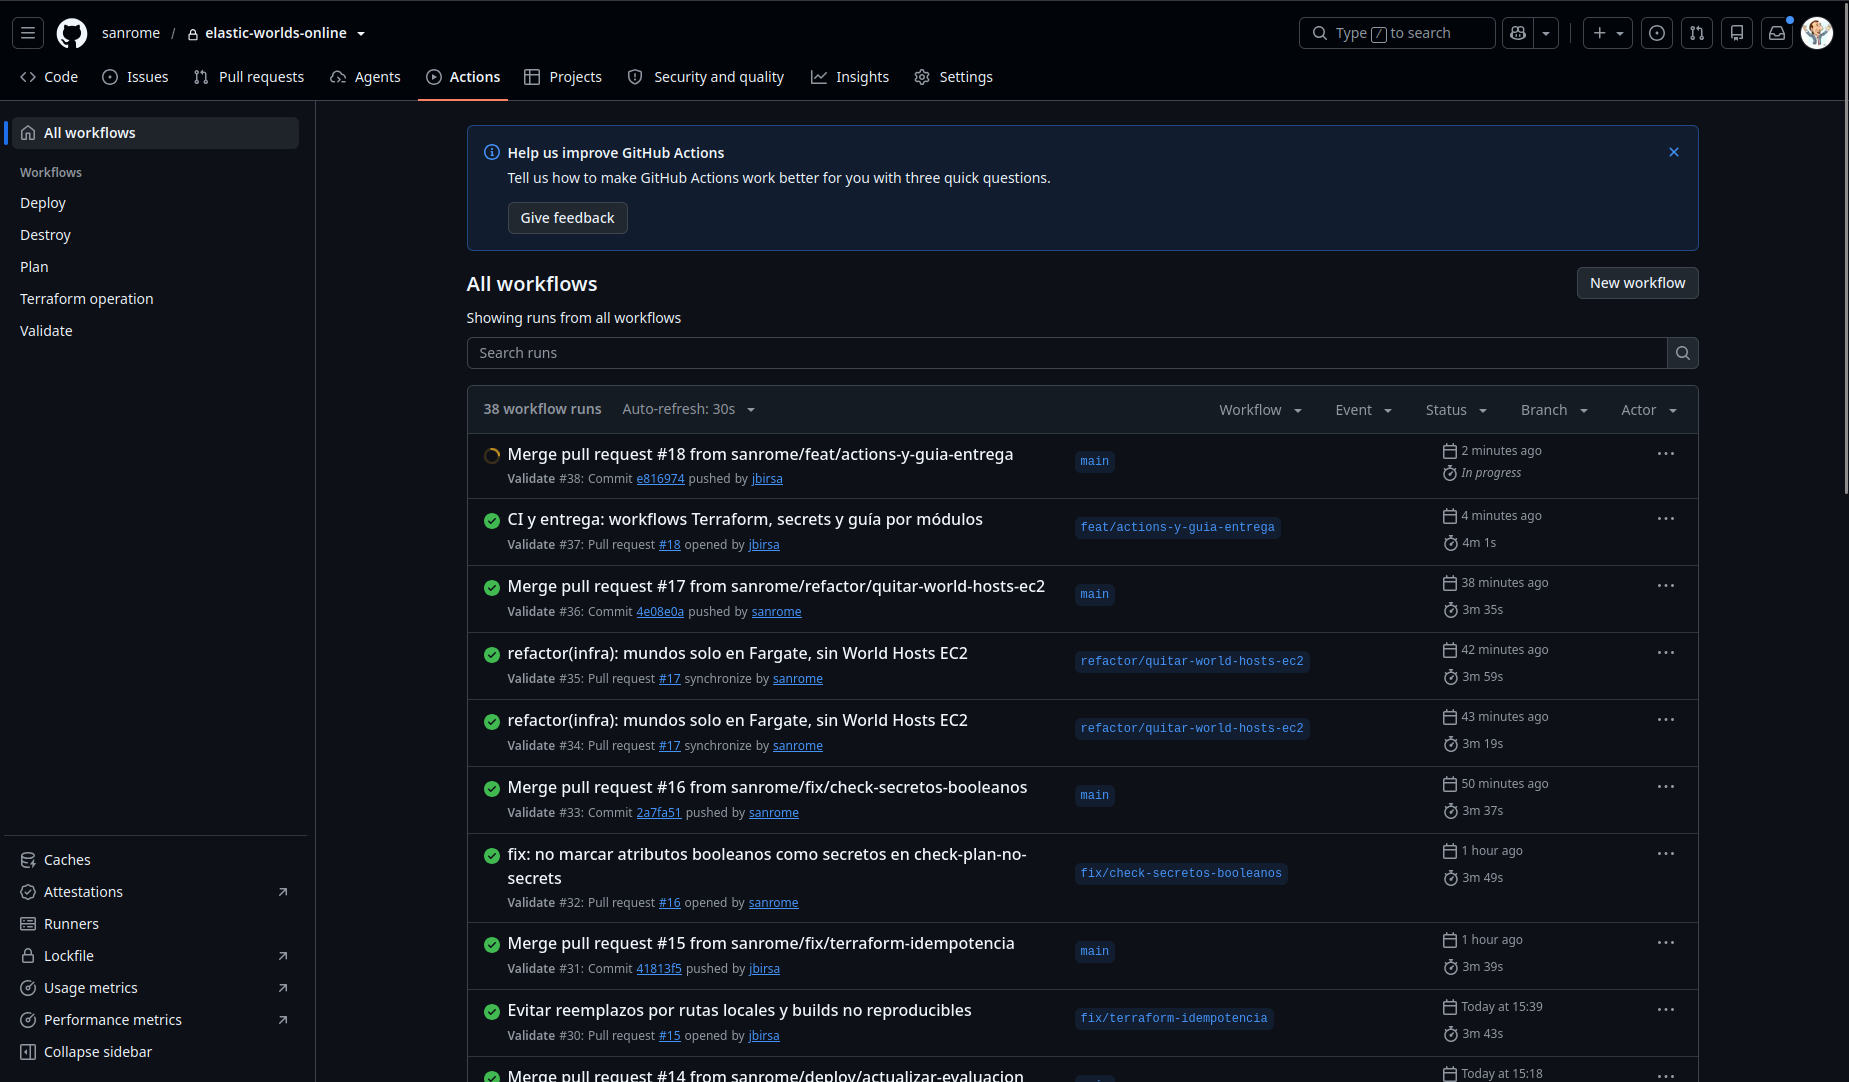
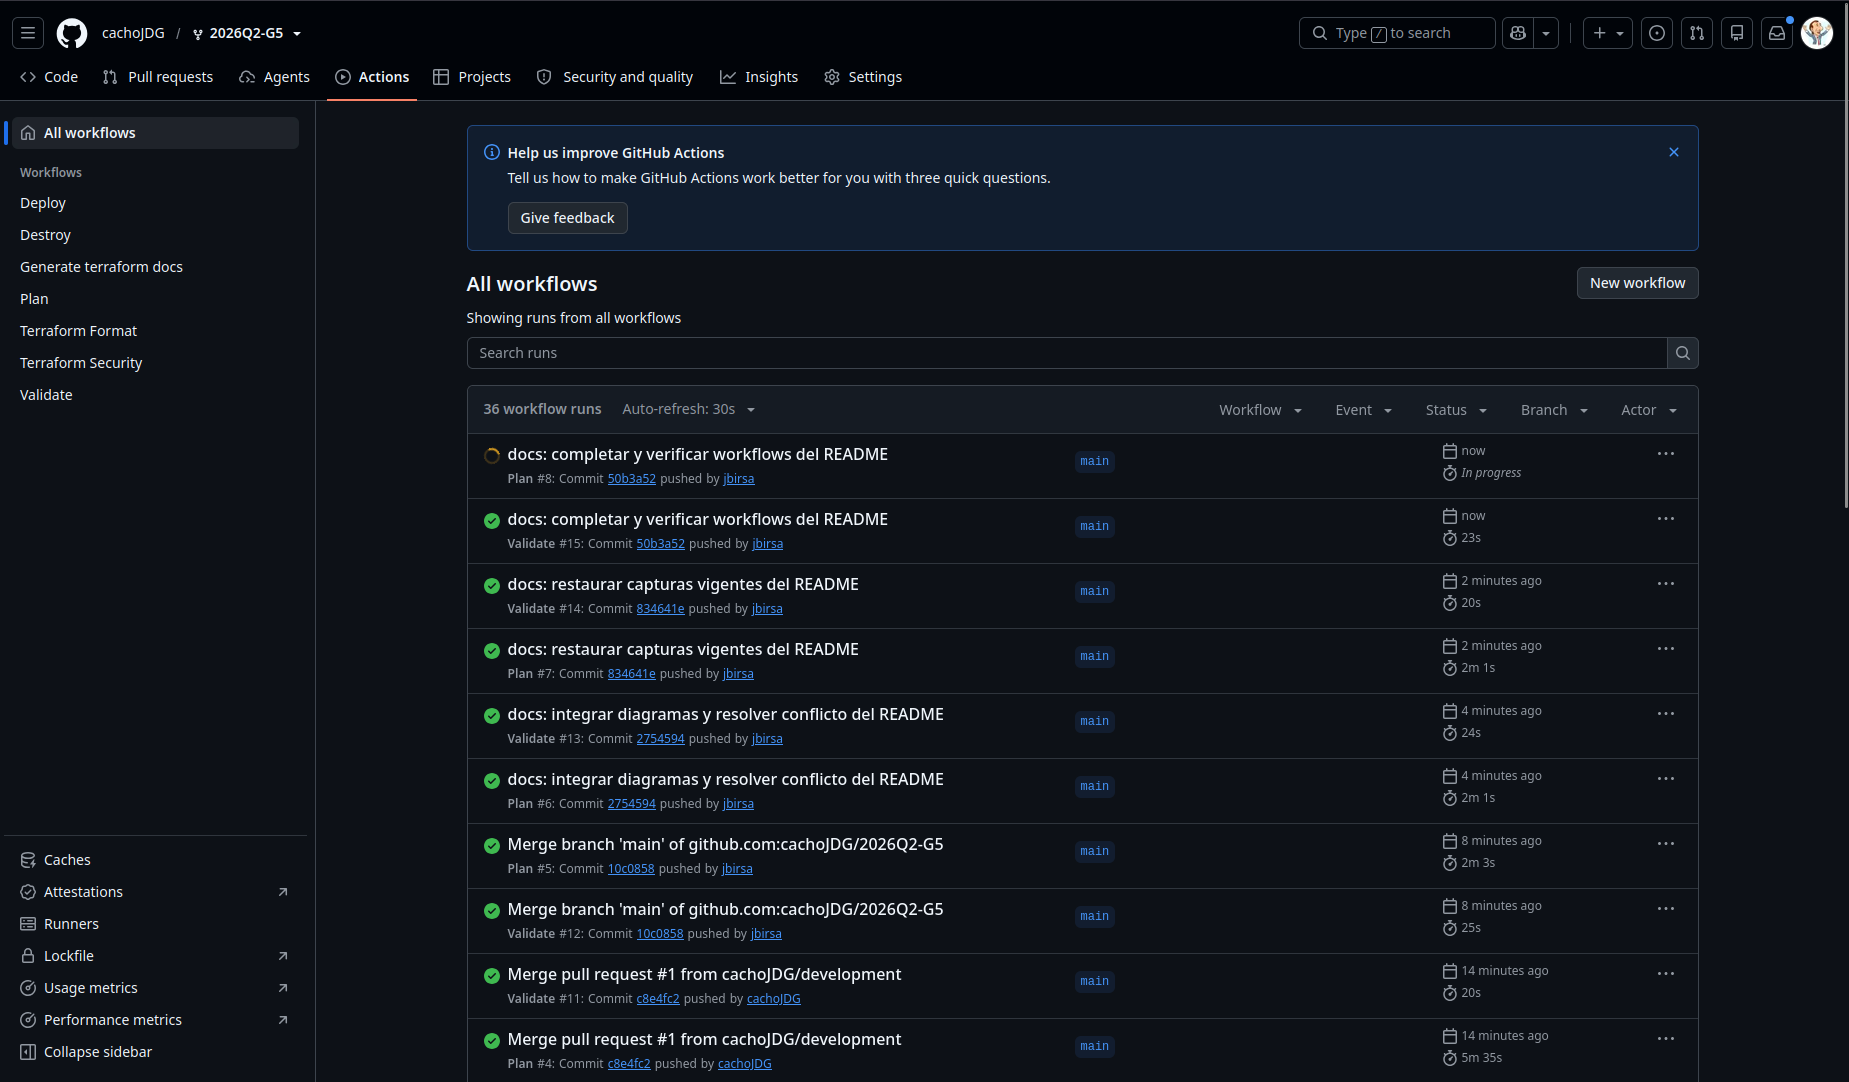
docs: agregar captura actualizada de workflows

diff --git a/README.md b/README.md
@@ -55,6 +55,8 @@ El bucket de estado `elastic-worlds-tfstate-<account-id>` se prepara automática
 
 Abrir la pestaña **Actions**; en un fork, habilitarla si GitHub lo solicita.
 
+![Workflows del repositorio en GitHub Actions](.docs/capturas/09-github-workflows.png)
+
 | Workflow | Cómo se inicia | Qué hace |
 | --- | --- | --- |
 | [Validate](.github/workflows/validate.yml) | Push, PR o ejecución manual | Verifica formato y configuración de Terraform |
